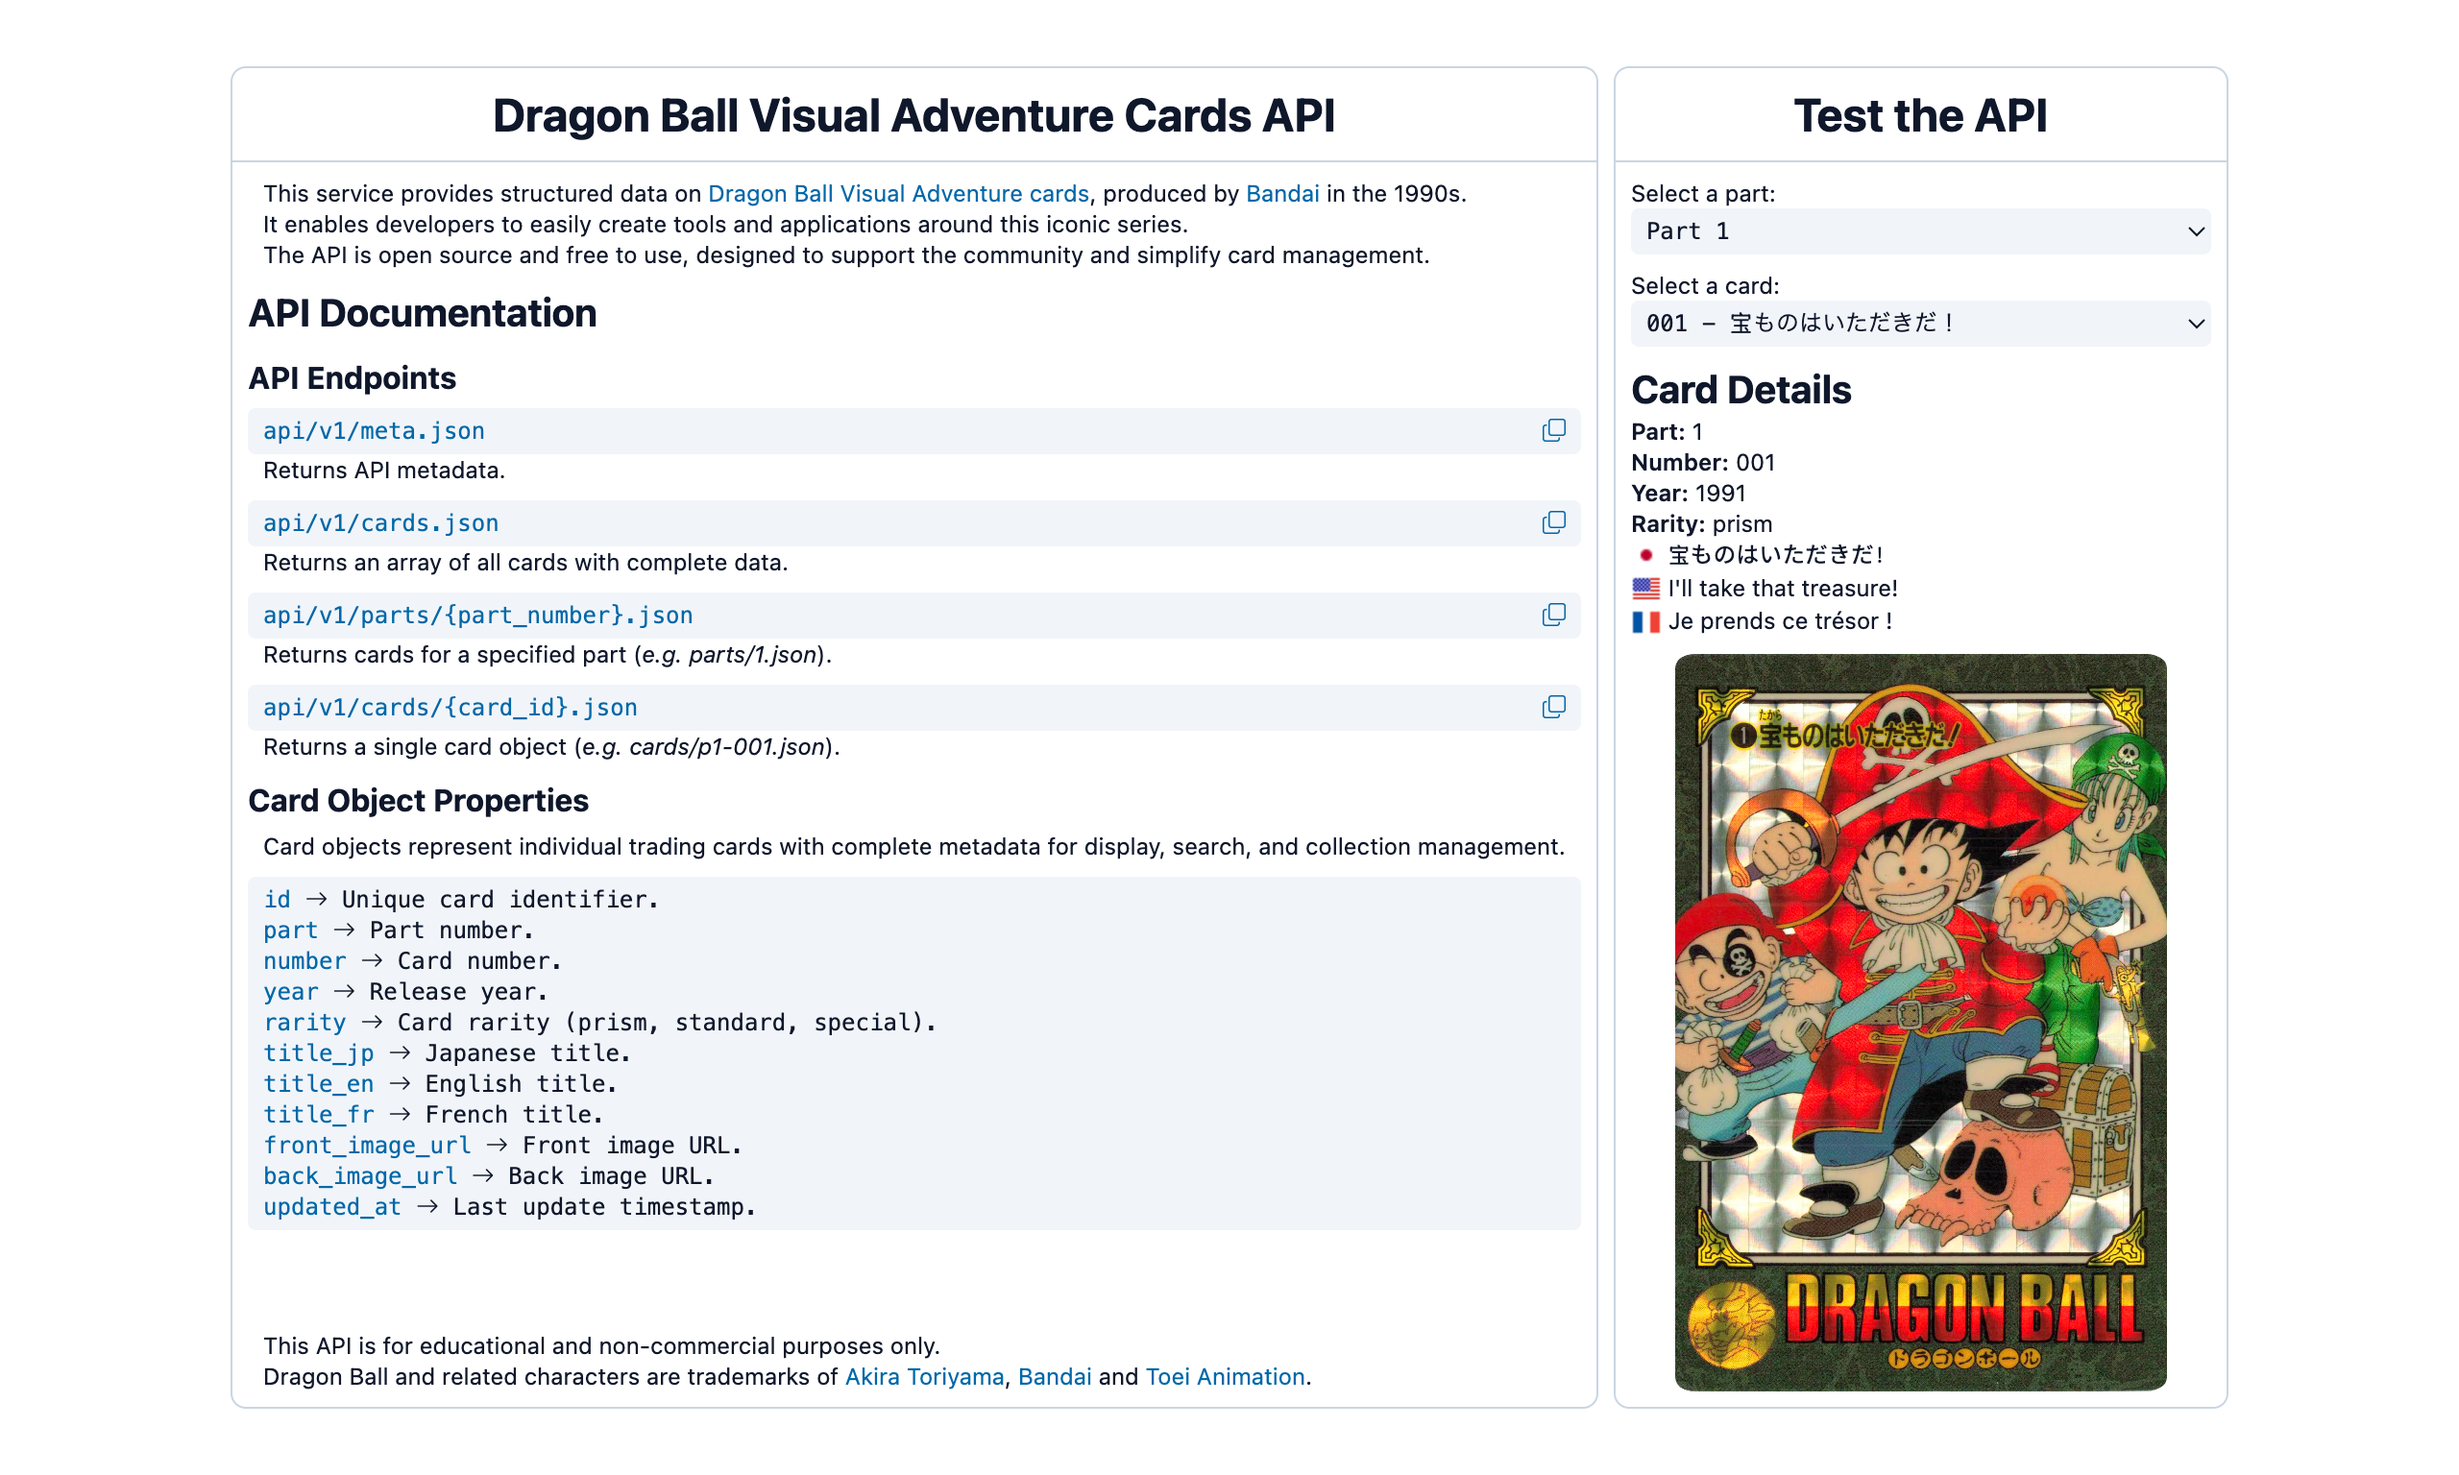
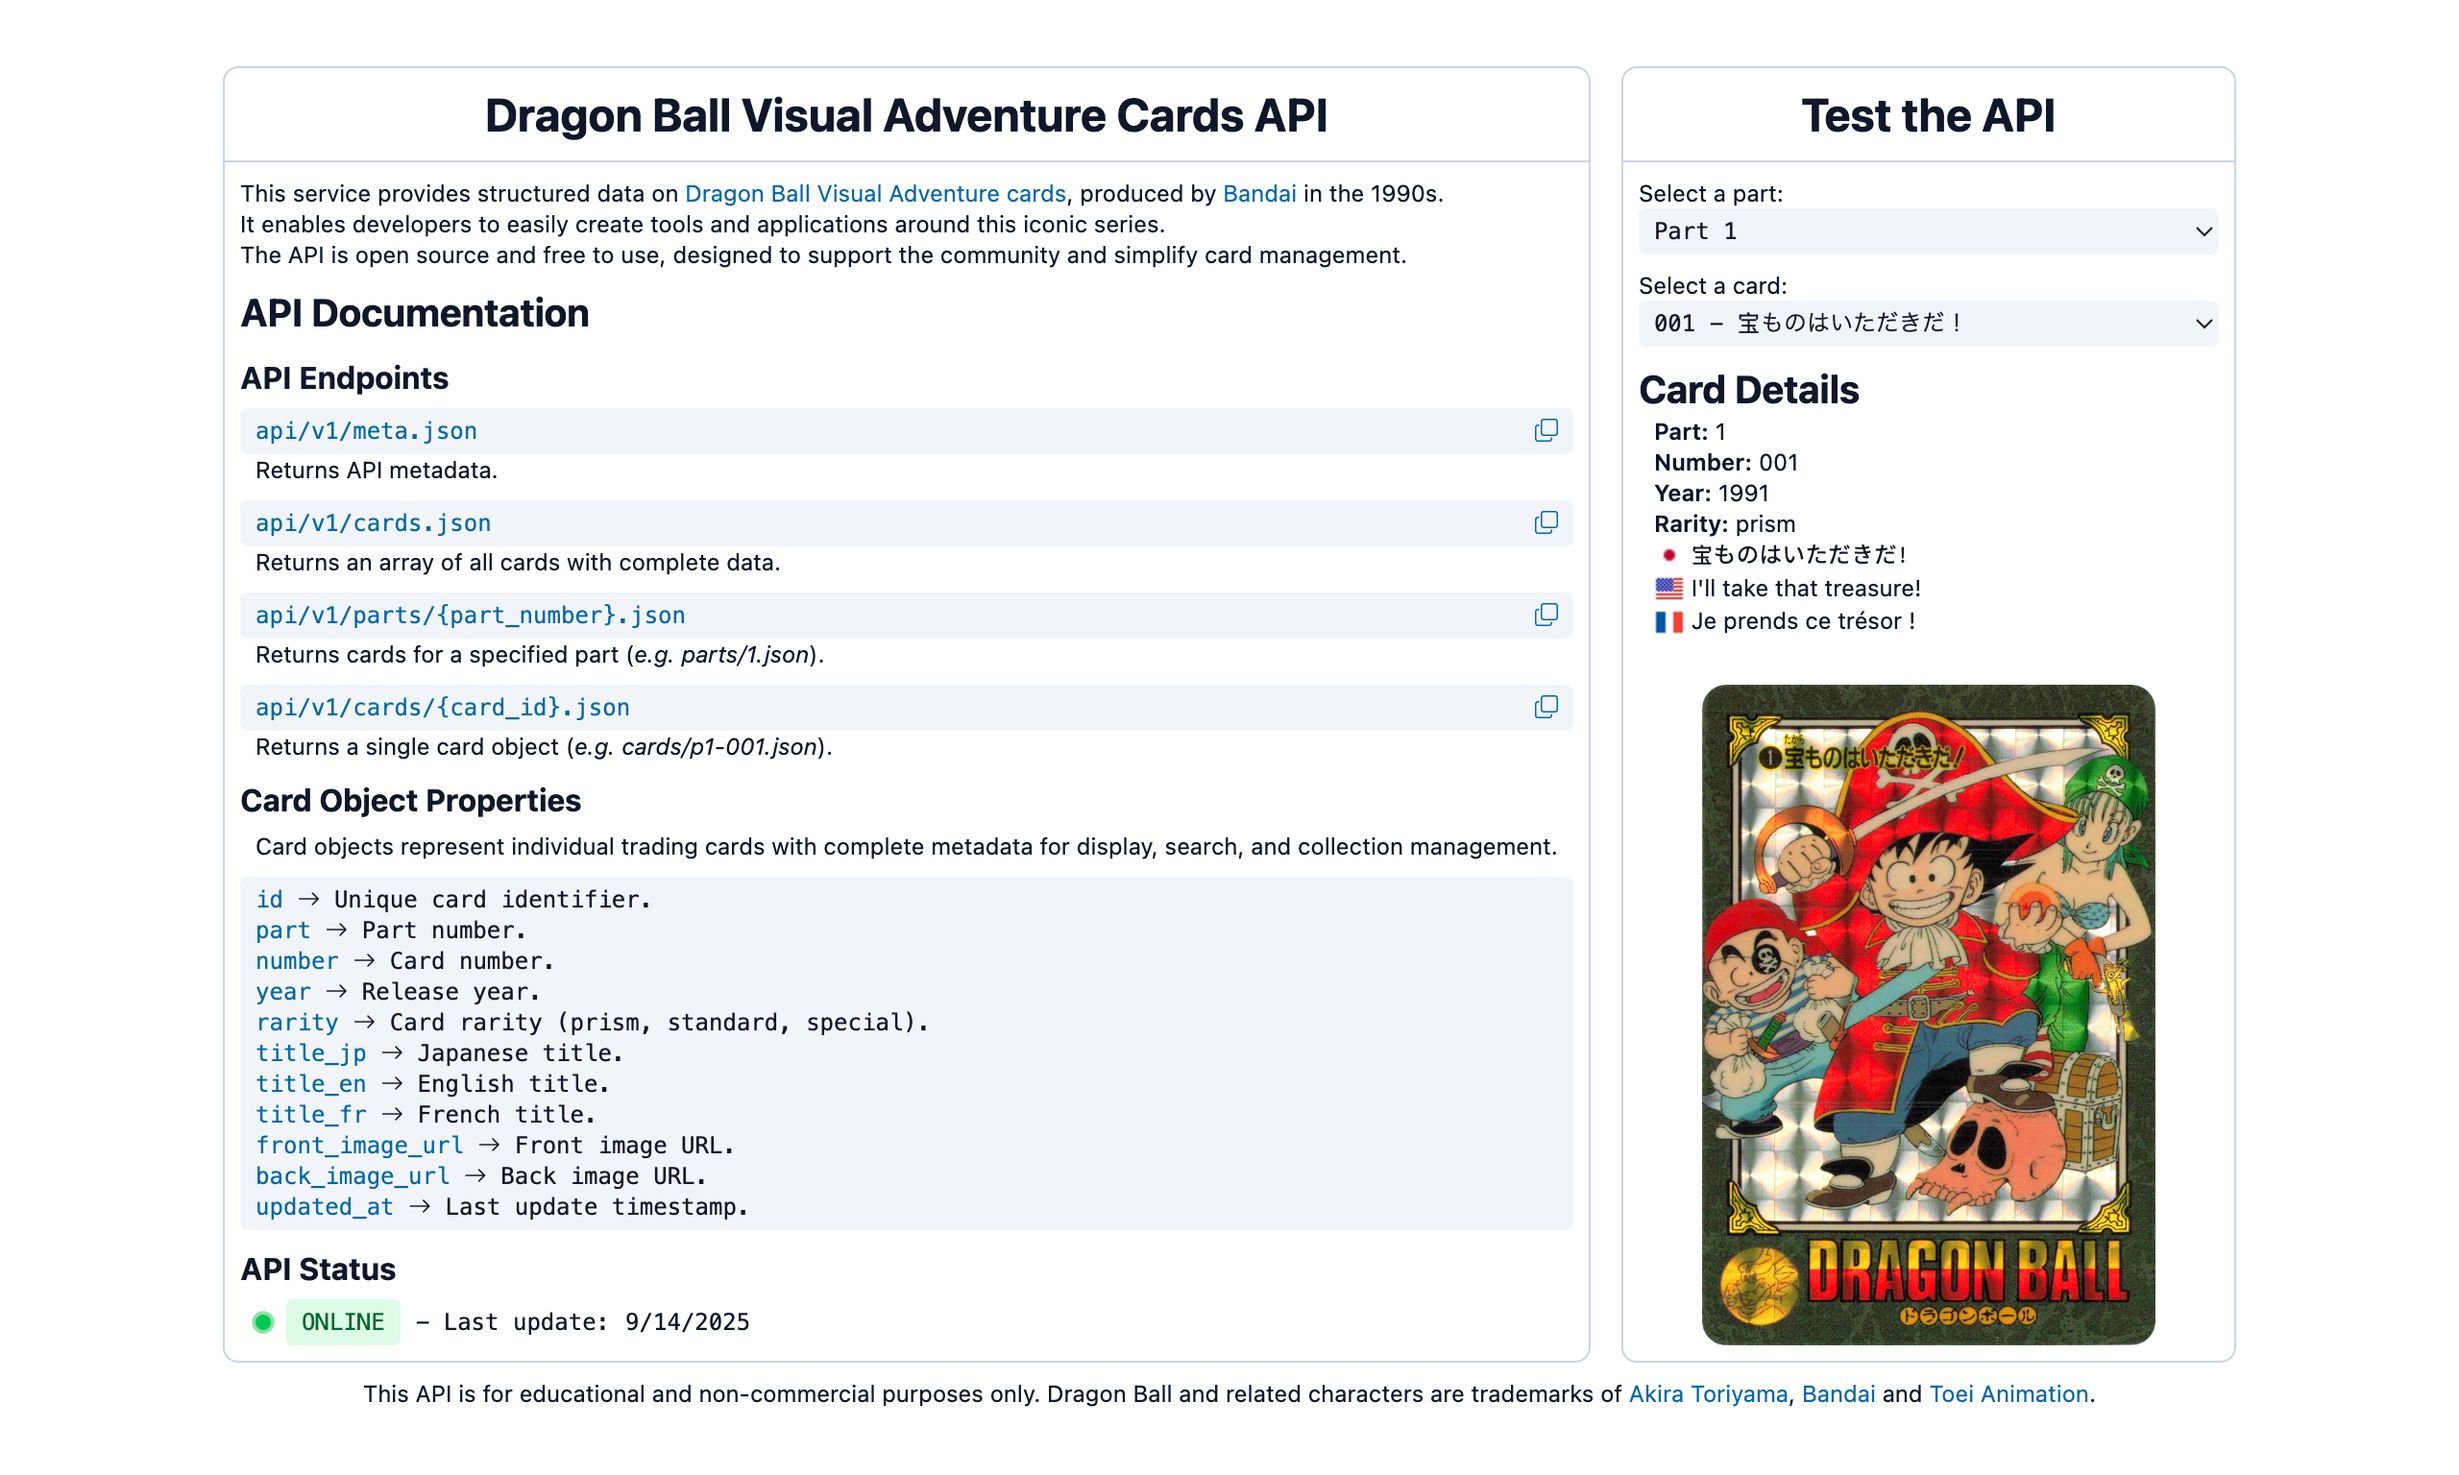
Create API status section (and update README.md screenshots).

Changed region(s): [[0.0938, 0.125, 0.9062, 0.9688], [0.1875, 0.0625, 0.5625, 0.0938], [0.7188, 0.0625, 0.8438, 0.0938]]

diff --git a/index.html b/index.html
@@ -16,11 +16,11 @@
 </head>
 
 <body class="w-full h-full lg:h-screen p-2 flex flex-col justify-center items-center text-xs text-slate-900">
-    <main class="flex flex-col lg:flex-row gap-2">
+    <main class="flex flex-col lg:flex-row gap-4">
         <section class="flex flex-col gap-2 border border-slate-300 rounded-lg">
             <h1 class="w-full px-2 py-2 text-lg lg:text-2xl font-bold text-center border-b border-slate-300">Dragon Ball Visual Adventure Cards API</h1>
 
-            <p class="px-4">
+            <p class="px-2">
                 This service provides structured data on <a class="text-sky-700" href="https://www.youtube.com/watch?v=vCU1JeaFlsA&list=PLmn6HKEaARYSZ4KyB0EPLudoUl5P3ojOd" target="_blank">Dragon Ball Visual Adventure cards</a>, produced by <a class="text-sky-700" href="https://fr.wikipedia.org/wiki/Bandai" target="_blank">Bandai</a> in the 1990s.
                 <br>
                 It enables developers to easily create tools and applications around this iconic series.
@@ -117,6 +117,11 @@
                     <li><code class="text-sky-700">updated_at</code> <i class="bi bi-arrow-right"></i> Last update timestamp.</li>
                 </ul>
             </div>
+
+            <div class="mb-2 px-2">
+                <h3 class="mb-1 text-base font-bold">API Status</h3>
+                <p id="api-status" class="px-2 flex items-center font-mono gap-2"></p>
+            </div>
         </section>
 
         <section class="w-full lg:w-80 flex flex-col gap-2 border border-slate-300 rounded-lg">
@@ -140,10 +145,10 @@
                 </div>
             </div>
 
-            <div class="flex flex-col">
+            <div class="h-full flex flex-col">
                 <h2 class="px-2 text-lg lg:text-xl font-bold">Card Details</h2>
 
-                <div id="card-details" class="lg:min-h-[480px] mb-1 lg:mb-0 px-2 pb-2 flex flex-col gap-2">
+                <div id="card-details" class="h-full mb-2 px-4 flex flex-col justify-between items-start gap-2">
                     <p>No part selected.</p>
                 </div>
             </div>
@@ -151,13 +156,20 @@
     </main>
 
     <footer>
-        <p class="px-4 text-center">
+        <p class="mt-2 px-4 text-center">
             This API is for educational and non-commercial purposes only.
             Dragon Ball and related characters are trademarks of <a class="text-sky-700" href="https://fr.wikipedia.org/wiki/Akira_Toriyama" target="_blank">Akira Toriyama</a>, <a class="text-sky-700" href="https://fr.wikipedia.org/wiki/Bandai" target="_blank">Bandai</a> and <a class="text-sky-700" href="https://fr.wikipedia.org/wiki/Toei_Animation" target="_blank">Toei Animation</a>.
         </p>
     </footer>
 
     <script>
+        let allCardData = [];
+
+        const apiStatus = document.getElementById("api-status");
+        const partSelect = document.getElementById("part-select");
+        const cardSelect = document.getElementById("card-select");
+        const cardDetails = document.getElementById("card-details");
+
         // Copy text to clipboard with visual feedback.
         async function copyToClipboard(text, iconElement) {
             try {
@@ -184,11 +196,76 @@
             }
         }
 
-        let allCardData = [];
+        // Update API status indicator with connection state and last update date.
+        async function updateApiStatus() {
+            let isOnline = false;
+            let updatedAt = "unknown";
 
-        const partSelect = document.getElementById("part-select");
-        const cardSelect = document.getElementById("card-select");
-        const cardDetails = document.getElementById("card-details");
+            try {
+                const response = await fetch("./api/v1/meta.json");
+                const metadata = await response.json();
+
+                isOnline = true;
+                updatedAt = new Date(metadata.generated_at).toLocaleDateString("en-US");
+            } catch (error) {
+                console.error(error.message);
+                isOnline = false;
+                updatedAt = "unknown";
+            }
+
+            // Create status dot indicator.
+            const pointContainer = document.createElement("span");
+            pointContainer.className = "relative";
+
+            const staticDot = document.createElement("span");
+            staticDot.className = "w-2 h-2 block rounded-full";
+
+            if (isOnline) {
+                staticDot.classList.add("bg-green-500");
+            } else {
+                staticDot.classList.add("bg-red-500");
+            }
+
+            pointContainer.appendChild(staticDot);
+
+            // Create animated ping effect for status dot.
+            const pingDot = document.createElement("span");
+            pingDot.className = "w-2 h-2 absolute top-0 left-0 rounded-full animate-ping";
+
+            if (isOnline) {
+                pingDot.classList.add("bg-green-500");
+            } else {
+                pingDot.classList.add("bg-red-500");
+            }
+
+            pointContainer.appendChild(pingDot);
+
+            apiStatus.appendChild(pointContainer);
+
+            // Display status text (ONLINE/OFFLINE).
+            const statusText = document.createElement("span");
+            statusText.className = "px-2 py-1 rounded";
+
+            if (isOnline) {
+                statusText.textContent = "ONLINE";
+                statusText.classList.add("text-green-800", "bg-green-100");
+            } else {
+                statusText.textContent = "OFFLINE";
+                statusText.classList.add("text-red-800", "bg-red-100");
+            }
+
+            apiStatus.appendChild(statusText);
+
+            // Display last update date.
+            const dashText = document.createTextNode("- Last update: ");
+
+            apiStatus.appendChild(dashText);
+
+            const dateText = document.createElement("span");
+            dateText.textContent = updatedAt;
+
+            apiStatus.appendChild(dateText);
+        }
 
         // Load available parts from API metadata.
         async function loadParts() {
@@ -340,6 +417,7 @@
         });
 
         // Initialize the application.
+        updateApiStatus()
         loadParts();
     </script>
 </body>
